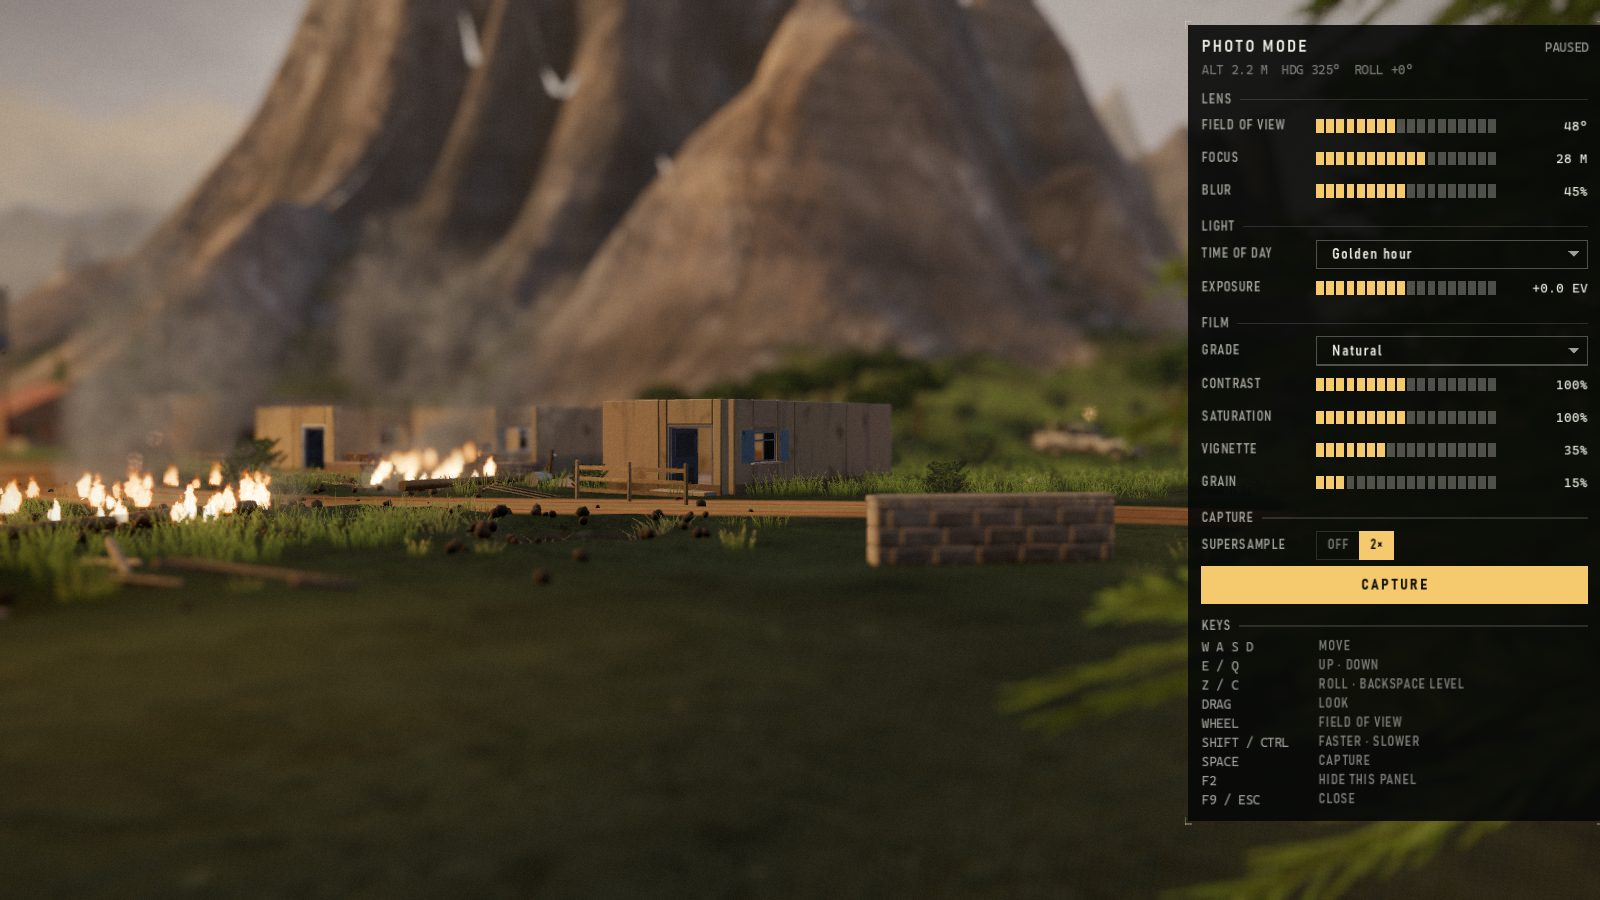
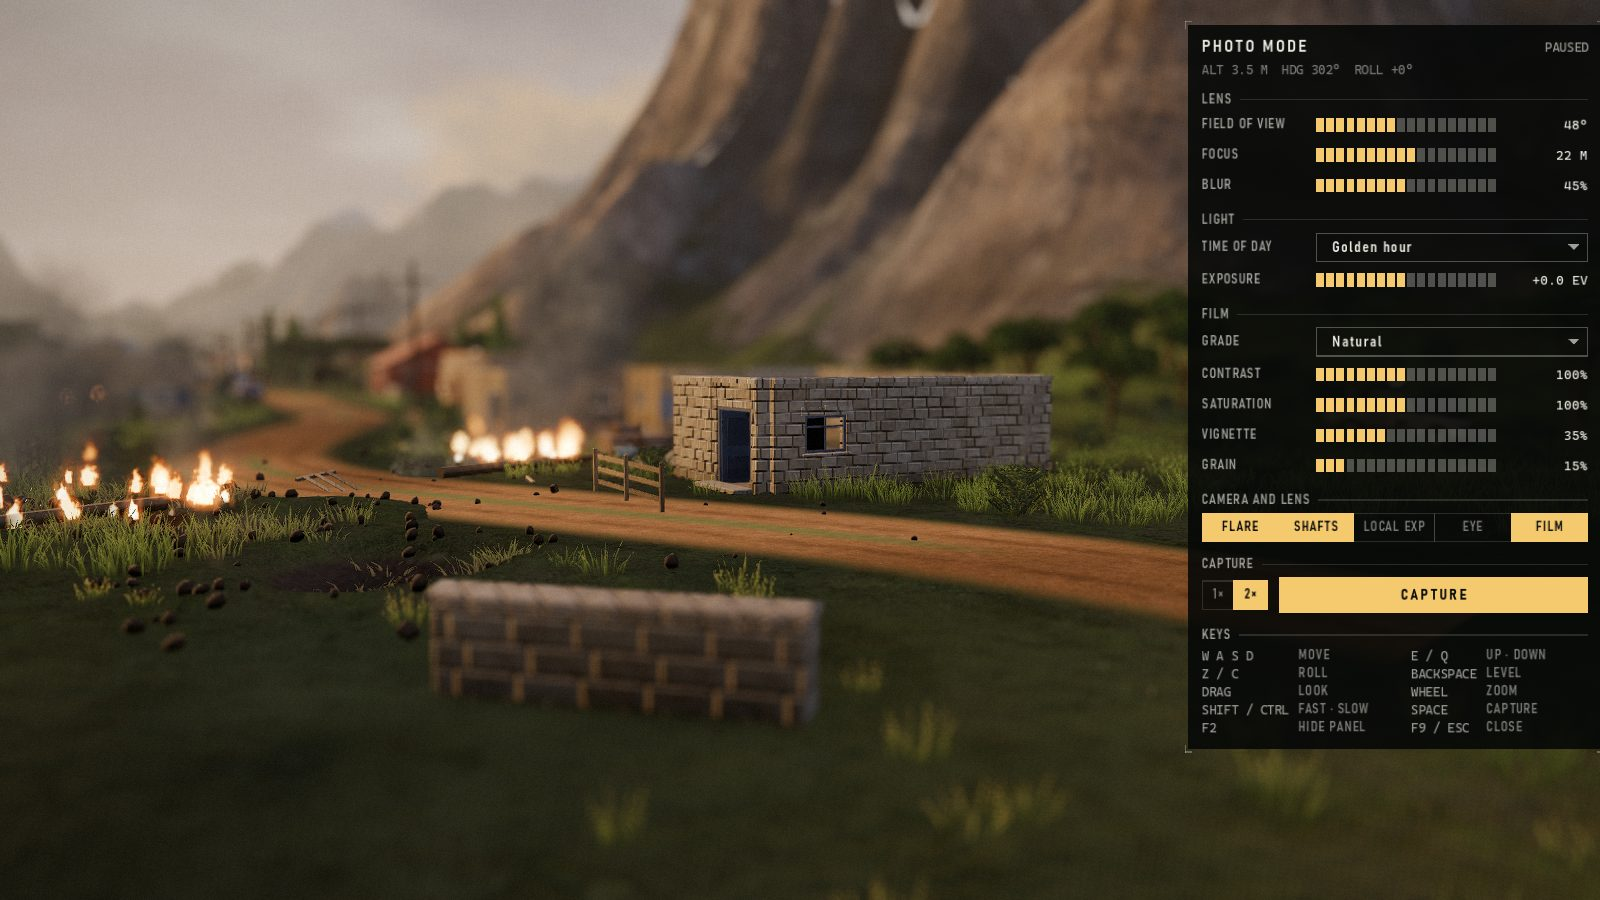
Photo mode: camera-and-lens toggles from the cinematic lighting, a compact panel
With #171 merged, the panel switches its five camera-and-lens passes (flare
and glare, sun shafts, local exposure, eye adaptation, film look) for the
picture alone, through a new Atmosphere.look_override that the passes read
before Settings and that photo mode empties when it closes. Forward+ only,
as the passes are.

The panel fits a 900-line window again: the keys sit two to a line and the
supersample switch beside the Capture button, and the sheet scrolls when a
window is shorter still. The fixture checks the lens overrides come and go.
The changelog stills are re-rendered at a fixed pose (--photo=pos:...), now
printed when a test run opens photo mode.

diff --git a/README.md b/README.md
@@ -153,7 +153,7 @@ On a Mac's trackpad, scroll with two fingers to drag the map and pinch to zoom; 
 
 When watching an AI battle: **C** hands the camera back to the director, **V** picks whose view you see, **P** pauses, and **[** and **]** change the speed.
 
-**Photo mode** (F9) holds a solo battle or a replay still (in multiplayer the fighting goes on), puts the interface away and lets the camera fly free: WASD fly the way the lens looks, E / Q go up and down, Z / C roll, and holding a mouse button and dragging looks round. Its panel sets the field of view, the focus and how soft the rest falls, exposure, the time of day, a colour grade, contrast, saturation, vignette and grain. Space takes the picture, at twice the resolution and scaled down for a cleaner edge, as a PNG in the game's `screenshots` folder; in a browser it's downloaded. F2 hides the panel, and F9 or Esc puts everything back as it was. None of it touches your settings.
+**Photo mode** (F9) holds a solo battle or a replay still (in multiplayer the fighting goes on), puts the interface away and lets the camera fly free: WASD fly the way the lens looks, E / Q go up and down, Z / C roll, and holding a mouse button and dragging looks round. Its panel sets the field of view, the focus and how soft the rest falls, exposure, the time of day, a colour grade, contrast, saturation, vignette and grain, and switches the camera-and-lens effects (flare, sun shafts, local exposure, eye adaptation, film look) for the picture alone. Space takes the picture, at twice the resolution and scaled down for a cleaner edge, as a PNG in the game's `screenshots` folder; in a browser it's downloaded. F2 hides the panel, and F9 or Esc puts everything back as it was. None of it touches your settings.
 
 ## Playing with friends
 

diff --git a/docs/FEATURES.md b/docs/FEATURES.md
@@ -80,8 +80,10 @@ its panel `scripts/ui/photo_panel.gd`):
 - **The panel** (Signal, a sheet at the right edge; F2 hides it): field of view (15 to 90 degrees), focus (0.5 to
   600 m, on a logarithmic bar) and blur, real depth of field from the scene's `CameraAttributesPractical` with
   a round, high-quality bokeh while it's on; exposure in stops over the time of day's own; the time of day
-  (`Atmosphere.apply_mood`); the colour grade with its contrast and saturation; vignette and grain. The browser's
-  renderer has no depth of field, so the focus and blur rows aren't there.
+  (`Atmosphere.apply_mood`); the colour grade with its contrast and saturation; vignette and grain; and the
+  camera-and-lens passes (flare and glare, sun shafts, local exposure, eye adaptation, film look), each on or off
+  for the picture through `Atmosphere.look_override` whatever the settings say. The browser's renderer has none of
+  those passes and no depth of field, so their rows aren't there.
 - **The picture** (Space, or Capture) is the frame without the panel or any overlay, the film look kept, saved as
   a PNG in `user://screenshots/` (named by the date and time) with a note saying where. **Supersample** draws it
   at twice the render scale (as long as its long side stays within 7680 pixels) and scales it down, widening the

diff --git a/changelog/unreleased/photo-mode.md b/changelog/unreleased/photo-mode.md
@@ -6,7 +6,7 @@ headline = true
 
 [[screenshots]]
 file = "panel.jpg"
-caption = "Photo mode over a held moment at Beachhead: the lens focused on the burning village at 28 m"
+caption = "Photo mode over a held moment at Beachhead: the lens focused on the stone house at 22 m, flare, sun shafts and film look on"
 
 [[screenshots]]
 file = "picture.jpg"
@@ -22,6 +22,8 @@ caption = "The picture it saved: no panel, drawn at twice the resolution and sca
   browser, whose renderer has none).
 - **The light and the film:** exposure, the time of day, a colour grade with its contrast and saturation, vignette
   and grain. The fog of war's shading can come off the ground too.
+- **Camera and lens:** lens flare, sun shafts, local exposure, eye adaptation and the film look switch on and off
+  for the picture alone, whatever your graphics settings have (on the desktop).
 - **Space takes the picture** without the panel, at twice the resolution for cleaner edges, as a PNG in the
   game's screenshots folder, and a note says where. In a browser it's downloaded.
 - **F2 hides the panel. F9 or Esc puts everything back** as it was, the battle's speed included. Your settings are
